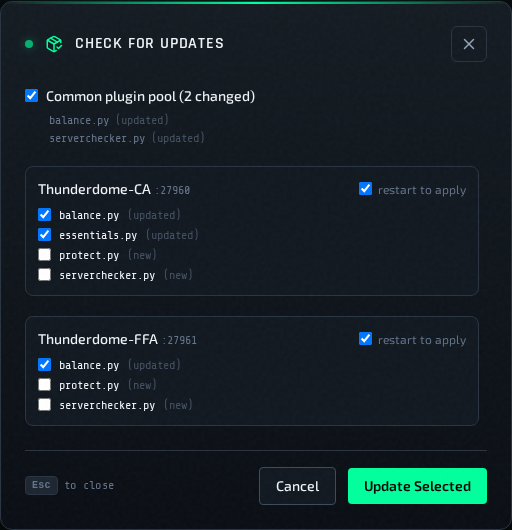
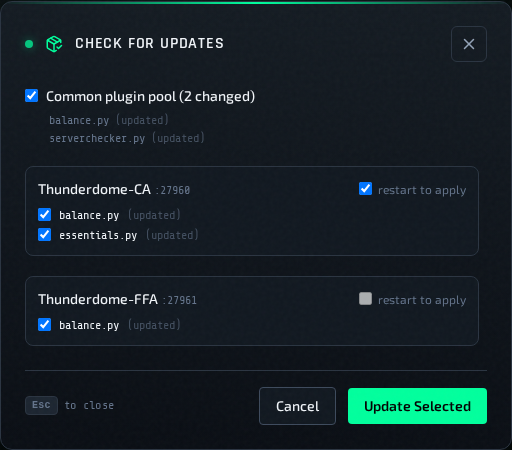
fix(plugins): only report stale copies in the per-instance update check
The per-instance diff compared the whole pool against the instance's
scripts/, so every pool file the instance didn't carry came back as "new".
Those files aren't stale: the restart backfill already delivers them from
the host pool, and presets leave them out on purpose (serverchecker.py is
always delivered that way). A fresh minqlx instance listed 16 of them, and
ticking one pinned a copy in scripts/ that later pool refreshes no longer
reach.

Compare only filenames present in both, so an instance only lists files
whose own copy differs from the pool.

diff --git a/frontend-react/src/components/hosts/CheckForUpdatesModal.jsx b/frontend-react/src/components/hosts/CheckForUpdatesModal.jsx
@@ -13,9 +13,8 @@ function CheckForUpdatesModal({ isOpen, onClose, onSubmit, host, isChecking, che
     const [restartInstances, setRestartInstances] = useState({}); // { [instanceId]: bool }
 
     // Default the common pool to selected (when it has changes) and each
-    // instance's already-stale files to pre-ticked once a check comes back
-    // — newly-added files start unticked, since the operator should opt in
-    // to those explicitly (see the preTicked filter below).
+    // instance's stale files to pre-ticked once a check comes back. The
+    // per-instance diff only reports "modified" files.
     useEffect(() => {
         if (!checkResult) return;
         setUpdateCommonPool((checkResult.common_pool_changes || []).length > 0 && !checkResult.common_pool_error);
@@ -23,13 +22,8 @@ function CheckForUpdatesModal({ isOpen, onClose, onSubmit, host, isChecking, che
         const restarts = {};
         (checkResult.instances || []).forEach(inst => {
             const changed = (inst.selected_plugin_changes || []).filter(c => c.change !== 'removed');
-            // Pre-tick only files this instance already has a stale copy of.
-            // Pre-ticking every "added" file too means one click on an
-            // 8-instance host copies every new pool plugin to all 8 and
-            // restarts them — the operator opts into those explicitly.
-            const preTicked = changed.filter(c => c.change === 'modified');
             if (changed.length > 0) {
-                files[inst.id] = new Set(preTicked.map(c => c.name));
+                files[inst.id] = new Set(changed.map(c => c.name));
                 restarts[inst.id] = !isStopped(inst);
             }
         });

diff --git a/ui/task_logic/plugin_update_check.py b/ui/task_logic/plugin_update_check.py
@@ -13,14 +13,12 @@
 #    that caused the match_restore.py incident: an instance's copy with a
 #    real upstream fix, and no path for that fix to ever reach it.
 #
-#    This diff is intentionally full-pool, not limited to filenames the
-#    instance already has: an instance's scripts/ dir is normally a
-#    creation-time snapshot of a whole preset (see _seed_draft in
-#    draft_routes.py), so a pool file the instance is missing almost always
-#    means the pool grew that file *after* the instance was created — the
-#    exact match_restore.py scenario — not a plugin the operator opted out
-#    of (opt-out is qlx_plugins, a cvar list; it never removes the file).
-#    Reported as "added" and applied the same way as any other change.
+#    Only filenames the instance already has are compared, so this diff
+#    reports "modified" and nothing else. A pool file missing from scripts/
+#    is not stale: the restart backfill already delivers it from the host
+#    pool. Presets also leave pool plugins out on purpose (serverchecker.py
+#    is always delivered that way), so reporting them as "added" flagged
+#    every instance with updates it didn't need.
 #
 # system-hooks (ql-assets/data/system-hooks/) is NOT checked here: that sync
 # task in sync_instance_configs_and_restart.yml runs unconditionally on every
@@ -75,14 +73,12 @@ def check_common_pool(host):
 def check_instance_selected_plugins(host, instance):
     """Diffs ql-assets pool vs this instance's own scripts snapshot
     (configs/{host}/{instance}/scripts/) — purely local, no SSH needed.
-    Full-pool diff, including files the instance doesn't have at all yet
-    (see module docstring) — those come back as "added" and are applied the
-    same way (a plain file copy in ansible_plugin_update.py), so there's no
-    manual docker cp needed to get a new default-preset plugin onto an
-    instance created before that plugin existed."""
+    Only files present in both are compared, so every change is "modified"
+    (see module docstring for why missing pool files aren't reported)."""
     source = hash_local_tree(_pool_dir(host), extensions=PLUGIN_EXTENSIONS)
     target = hash_local_tree(_instance_scripts_dir(host.name, instance.id), extensions=PLUGIN_EXTENSIONS)
-    return diff_trees(source, target)
+    shared = source.keys() & target.keys()
+    return diff_trees({n: source[n] for n in shared}, {n: target[n] for n in shared})
 
 
 def check_host_updates(host):

diff --git a/tests/test_plugin_update_check.py b/tests/test_plugin_update_check.py
@@ -59,13 +59,13 @@ def test_check_common_pool_propagates_error(mock_adhoc, app, temp_config_dir):
     assert error == "unreachable"
 
 
-def test_check_instance_selected_plugins_flags_modified_and_new_pool_files(app, temp_config_dir):
+def test_check_instance_selected_plugins_reports_only_modified_files(app, temp_config_dir):
     pool_dir = os.path.abspath(MINQLX_PLUGINS_POOL_DIR)
     os.makedirs(pool_dir, exist_ok=True)
     with open(os.path.join(pool_dir, 'present.py'), 'w') as f:
         f.write('new version')
     with open(os.path.join(pool_dir, 'never_had.py'), 'w') as f:
-        f.write('added to the pool after this instance was created')
+        f.write('pool-only plugin, delivered by the restart backfill')
 
     with app.app_context():
         from ui.database import db
@@ -80,16 +80,15 @@ def test_check_instance_selected_plugins_flags_modified_and_new_pool_files(app, 
         os.makedirs(scripts_dir, exist_ok=True)
         with open(os.path.join(scripts_dir, 'present.py'), 'w') as f:
             f.write('stale local copy')
+        with open(os.path.join(scripts_dir, 'highfps.py'), 'w') as f:
+            f.write('preset-only plugin, not in the pool')
 
         changes = check_instance_selected_plugins(host, inst)
 
-    names = {c["name"]: c["change"] for c in changes}
-    # present.py: instance has it, pool content differs -> modified
-    assert names.get("present.py") == "modified"
-    # never_had.py: instance's scripts/ predates this pool file -> surfaced as
-    # "added" so it can be picked up via "Check for Updates" instead of a
-    # manual docker cp (the match_restore.py incident this check exists for)
-    assert names.get("never_had.py") == "added"
+    # present.py: instance has it, pool content differs -> modified.
+    # never_had.py (pool only) and highfps.py (instance only) aren't stale
+    # copies, so neither is reported.
+    assert changes == [{"name": "present.py", "change": "modified"}]
 
 
 @patch('ui.task_logic.plugin_update_check.run_host_ansible_adhoc')

diff --git a/docs/user/operations/check-for-updates.md b/docs/user/operations/check-for-updates.md
@@ -22,10 +22,7 @@ The modal has two kinds of sections.
 
 **Common plugin pool.** This is the host's shared copy of QLSM's built-in plugins. Every instance on the host gets these files unless its own plugin set already includes a file with the same name.
 
-**One box per instance.** These are the plugin files that belong to that instance, the same ones you see on its **Plugins** tab. Each file is labelled:
-
-- **updated**: the instance has this file, but QLSM ships a newer version.
-- **new**: QLSM ships this file and the instance doesn't have it yet.
+**One box per instance.** These are the plugin files that belong to that instance, the same ones you see on its **Plugins** tab. A file is listed as **updated** when the instance has its own copy and QLSM ships a different version. Plugins the instance doesn't have its own copy of aren't listed, because the instance already gets them from the common plugin pool.
 
 If everything already matches, the modal says **no updates available**.
 
@@ -33,7 +30,6 @@ If everything already matches, the modal says **no updates available**.
 
 - **Common plugin pool** is ticked when it has changes.
 - **Updated** files are ticked. Updating them replaces the instance's copy, **including any edits you made to that file in the plugin editor**. Untick a file you've customized and want to keep.
-- **New** files start unticked. Tick the ones you want. A new file is only copied to the instance. It doesn't run until you also enable it on the instance's **Plugins** tab.
 - **Restart to apply** is ticked for running instances. An instance only picks up plugin changes when it restarts, and only instances with at least one ticked file are restarted.
 
 Click **Update Selected** to apply your choices.

diff --git a/docs/api_reference.md b/docs/api_reference.md
@@ -104,7 +104,9 @@ Read-only diff of `ql-assets/data/<pool>/` (the pool is chosen from
 - **Common pool:** the host's `/home/ql/assets/common/<pool>/`, hashed with
   one ad-hoc `sha256sum` over SSH (15s connect timeout, 30s overall).
 - **Each instance:** `configs/<host_name>/<instance_id>/scripts/`, hashed locally.
-  This is a full-pool diff, so a pool file the instance lacks is reported as `added`.
+  Only files the instance already has are compared, so every entry is
+  `modified`. A pool file missing from `scripts/` isn't reported, because the
+  restart backfill delivers it from the host pool.
 
 Runs synchronously in the request. Requires the host to be `ACTIVE`.
 
@@ -123,8 +125,7 @@ Runs synchronously in the request. Requires the host to be `ACTIVE`.
         "port": 27960,
         "status": "running",
         "selected_plugin_changes": [
-          {"name": "essentials.py", "change": "modified"},
-          {"name": "protect.py", "change": "added"}
+          {"name": "essentials.py", "change": "modified"}
         ]
       }
     ]
@@ -132,9 +133,9 @@ Runs synchronously in the request. Requires the host to be `ACTIVE`.
 }
 ```
 
-`change` is `added` (in the pool, missing from the target), `modified` (hash
-differs) or `removed` (in the target, gone from the pool; reported for
-visibility only, apply never deletes it). If the host can't be read,
+In `common_pool_changes`, `change` is `added` (in the pool, missing from the
+host), `modified` (hash differs) or `removed` (on the host, gone from the pool;
+the refresh deletes it). If the host can't be read,
 `common_pool_changes` is `[]` and `common_pool_error` carries the reason. The
 per-instance diffs are still returned.
 
